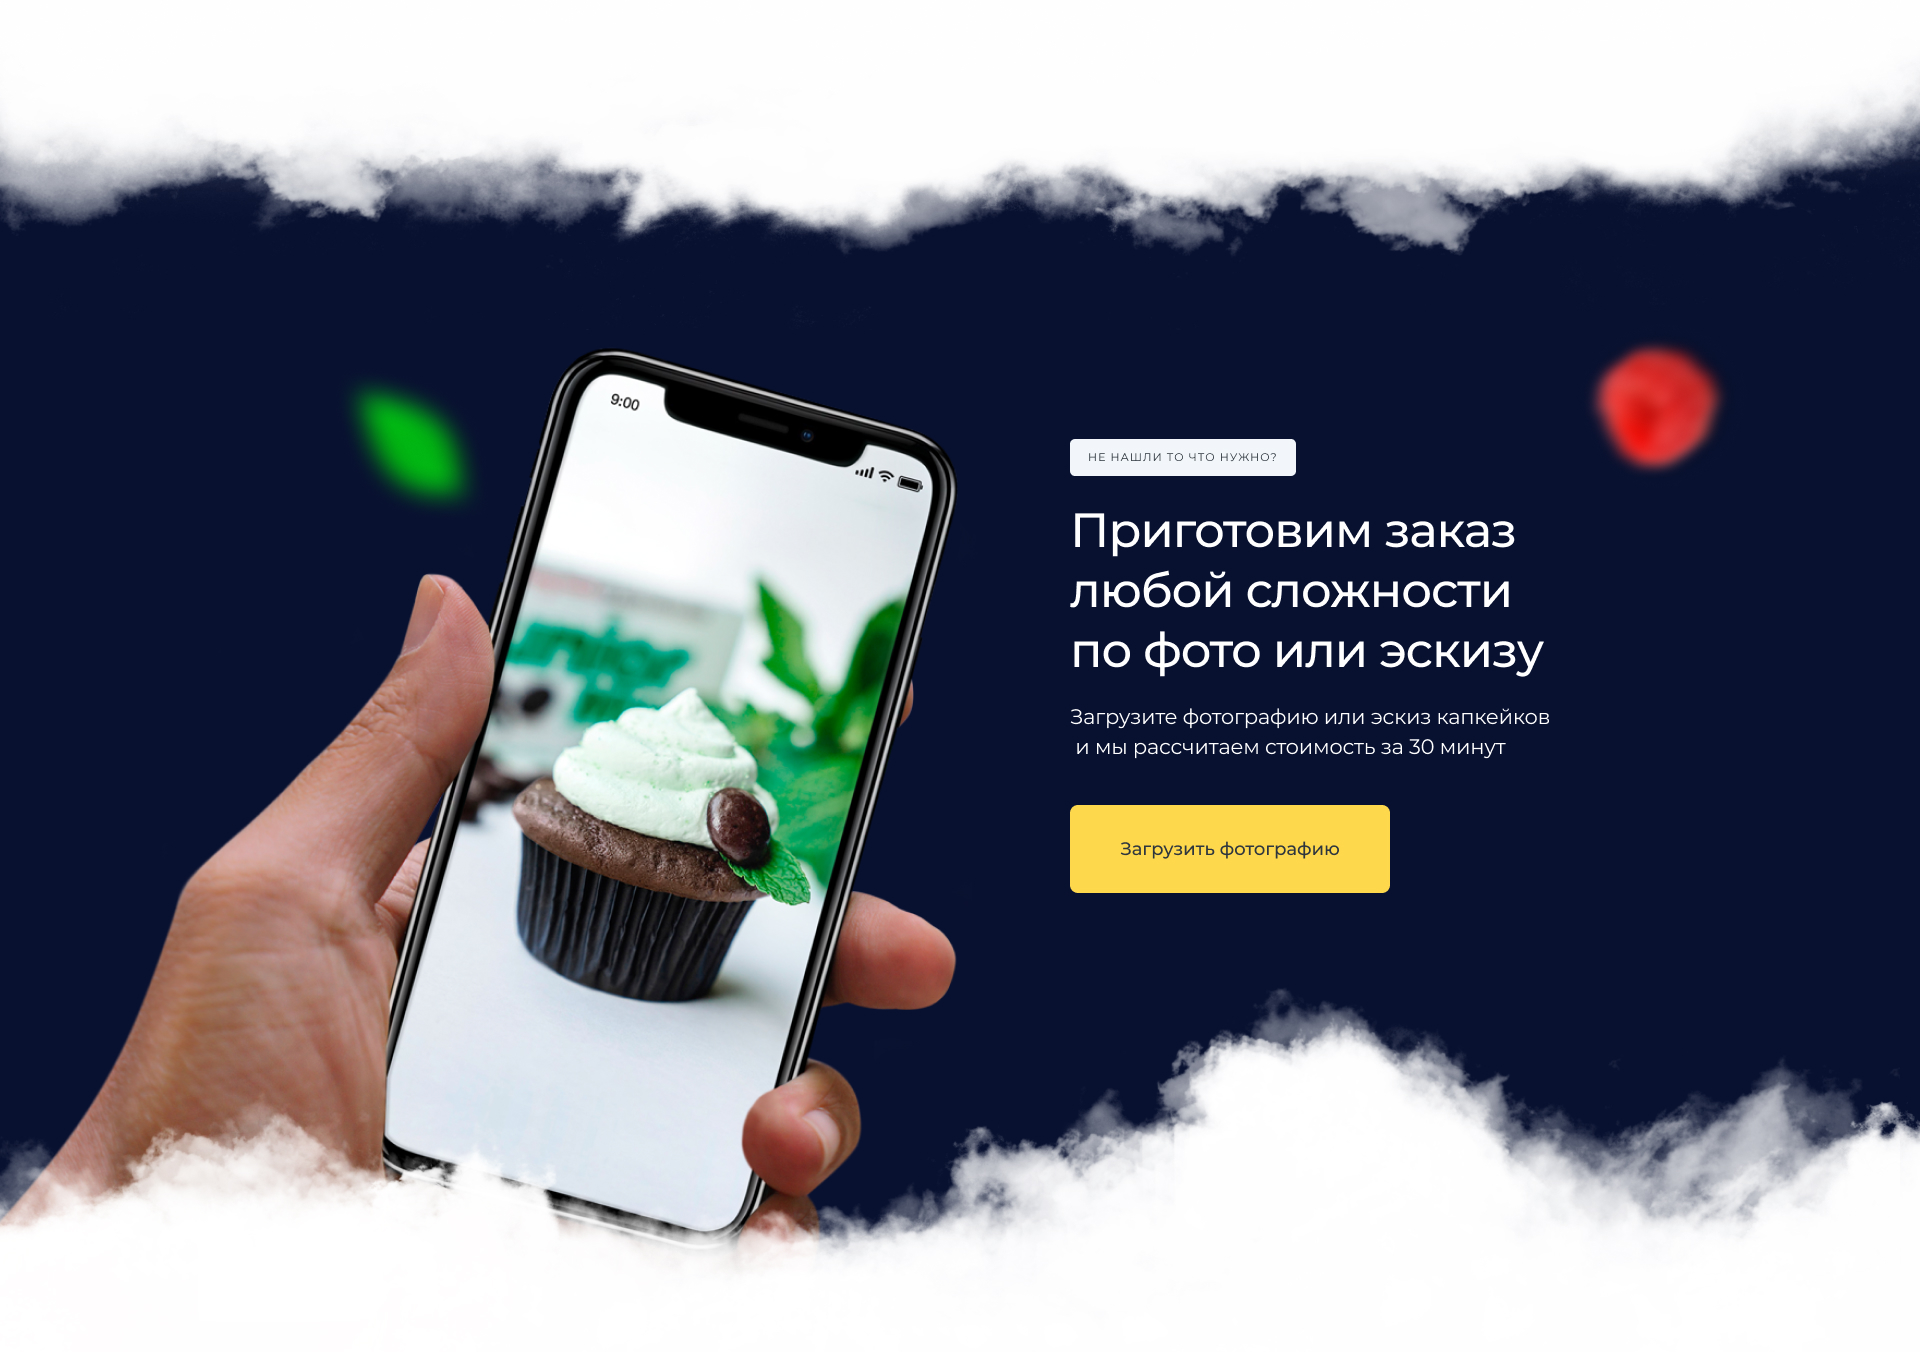
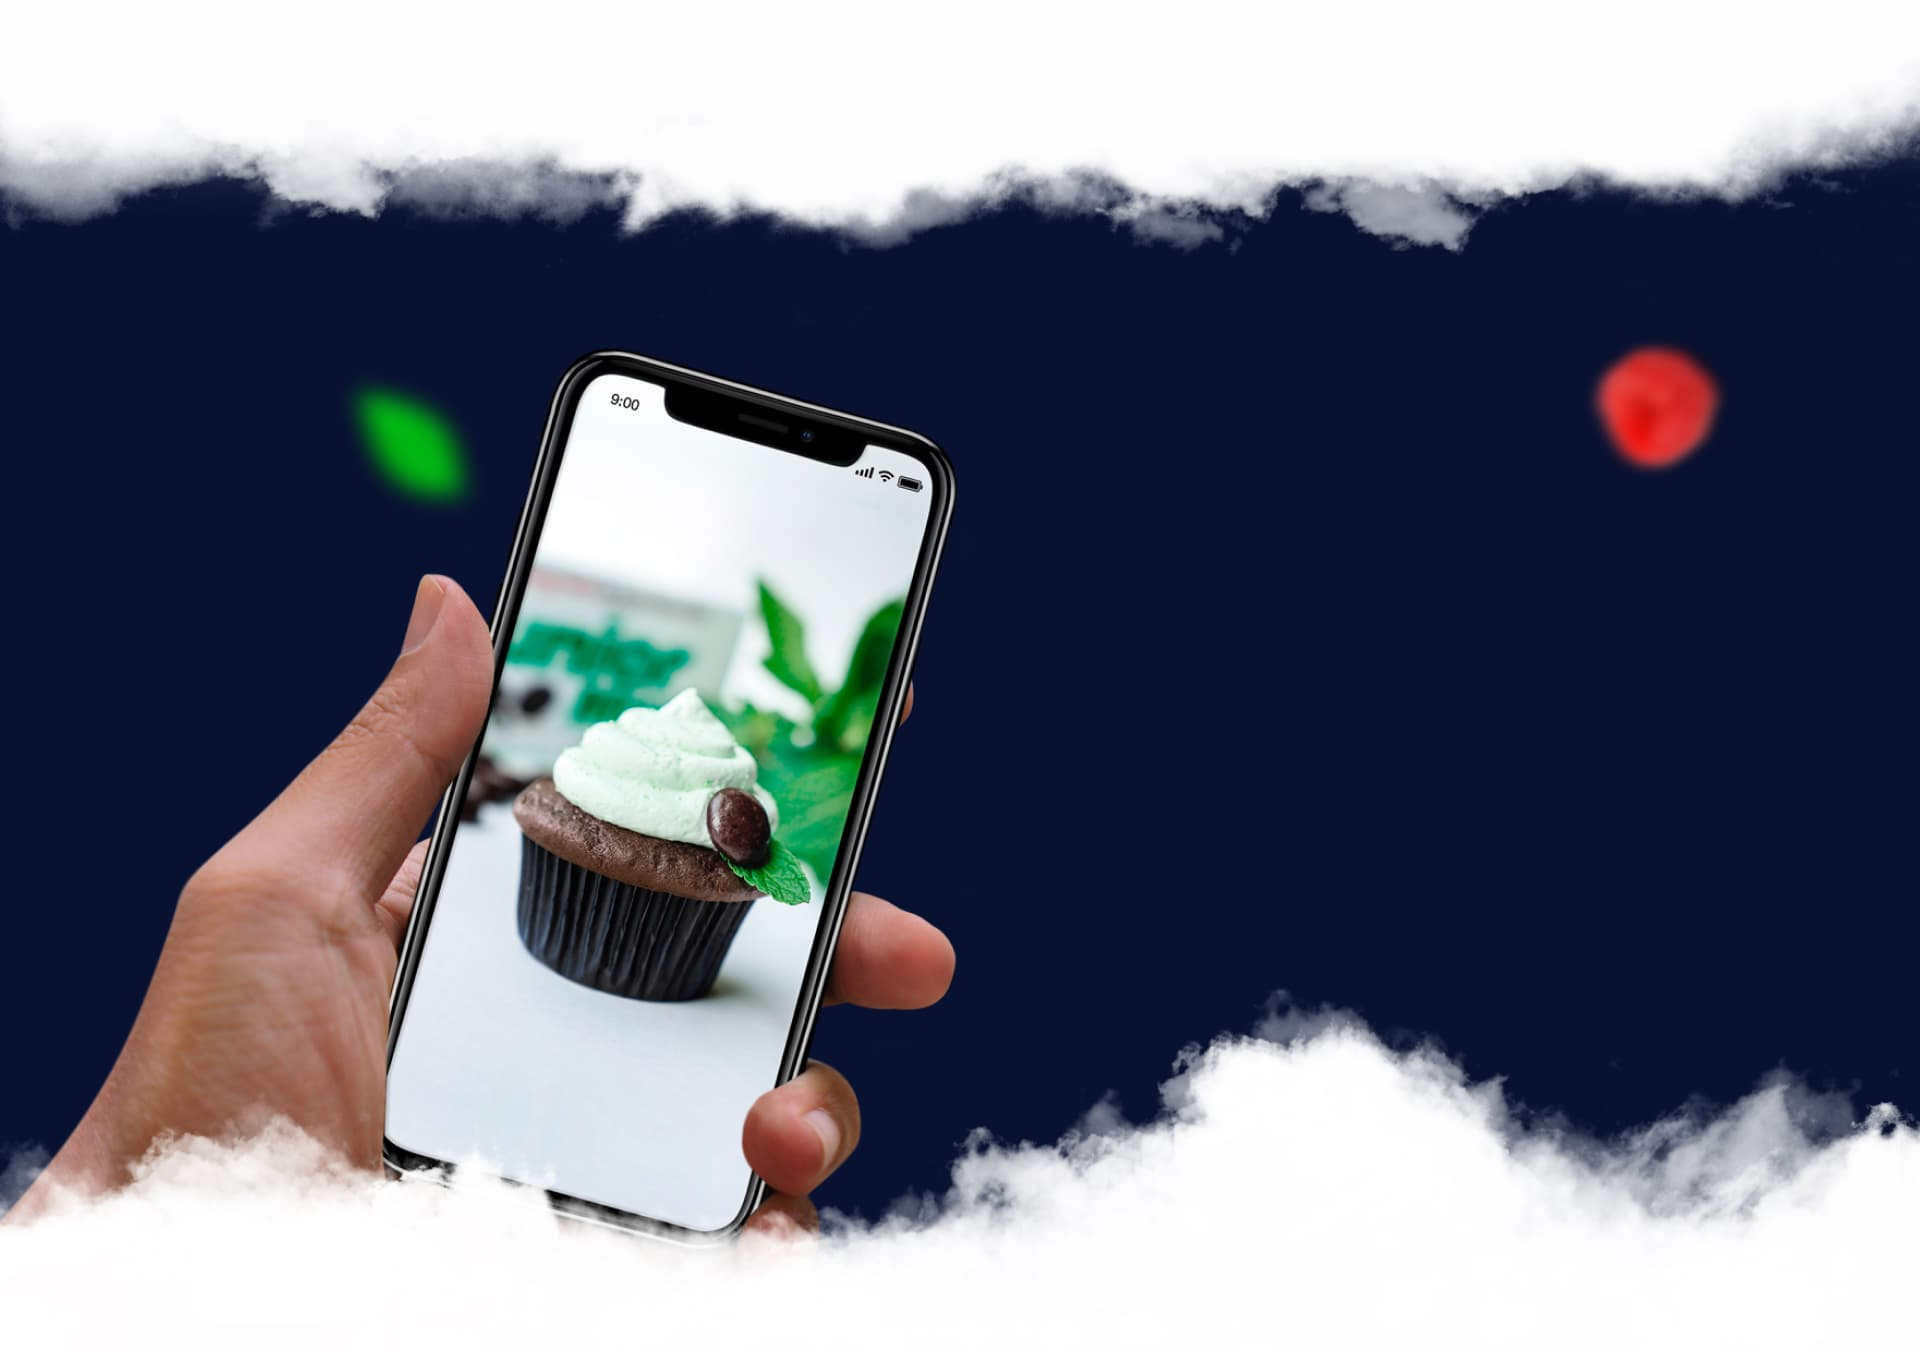
content-first

Changed region(s): [[0.5625, 0.3107, 0.8125, 0.497], [0.5312, 0.5902, 0.75, 0.6834], [0.5625, 0.5281, 0.8125, 0.5592]]

diff --git a/css/style.css b/css/style.css
@@ -123,6 +123,7 @@ a {
   -webkit-box-flex: 1;
       -ms-flex: 1 1 auto;
           flex: 1 1 auto;
+  margin-top: -55px;
 }
 
 .container {
@@ -381,6 +382,7 @@ a {
   -webkit-box-align: center;
       -ms-flex-align: center;
           align-items: center;
+  font-size: 11px;
   letter-spacing: 0.1em;
   text-transform: uppercase;
   color: #2e363e;
@@ -388,6 +390,7 @@ a {
   background: #f2f6fa;
   border-radius: 5px;
   margin-bottom: 24px;
+  line-height: 150%;
 }
 
 .title {
@@ -433,6 +436,7 @@ a {
 }
 
 .button {
+  display: inline-block;
   background: #fed84c;
   border-radius: 8px;
   font-weight: 500;
@@ -527,6 +531,11 @@ a {
   border: 1px solid #f2f6fa;
   border-radius: 0px 0px 10px 10px;
 }
+@media (max-width: 490px) {
+  .product-catalog__body {
+    padding: 30px 24px;
+  }
+}
 .product-catalog__subtitle {
   font-weight: 700;
   font-size: 24px;
@@ -603,4 +612,92 @@ a {
           transform: rotate(0deg);
   top: 53%;
   right: -90px;
+}
+
+.content-first {
+  z-index: 0;
+  position: relative;
+  background: url("../img/content-first/bg.jpg") 60% 50% no-repeat;
+  background-size: cover;
+  height: 1294px;
+  color: #ffffff;
+  padding: 37px 0;
+}
+@media (max-width: 992px) {
+  .content-first {
+    background: url("../img/content-first/bg__1300.jpg") 50% 50% no-repeat;
+    height: 791px;
+  }
+}
+@media (max-width: 767px) {
+  .content-first {
+    background: url("../img/content-first/bg__1000.jpg") 50% 50% no-repeat;
+    height: 600px;
+    padding: 10px 0;
+  }
+}
+.content-first__body {
+  margin: 372px 0px 0px 0px;
+  display: -webkit-box;
+  display: -ms-flexbox;
+  display: flex;
+  -webkit-box-pack: end;
+      -ms-flex-pack: end;
+          justify-content: flex-end;
+}
+@media (max-width: 992px) {
+  .content-first__body {
+    margin: 130px 0px 0px 0px;
+    -webkit-box-pack: center;
+        -ms-flex-pack: center;
+            justify-content: center;
+  }
+}
+.content-first__block {
+  max-width: 521px;
+  padding: 0 20px;
+}
+@media (max-width: 767px) {
+  .content-first__block {
+    max-width: 487px;
+  }
+}
+.content-first__title {
+  font-weight: 500;
+  margin: 0px 0px 24px 0px;
+}
+@media (max-width: 490px) {
+  .content-first__title {
+    letter-spacing: -1px;
+    line-height: 30px;
+    margin: 0px 0px 14px 0px;
+  }
+}
+.content-first__subtitle {
+  font-size: 21px;
+  letter-spacing: -0.2px;
+}
+@media (max-width: 767px) {
+  .content-first__subtitle {
+    font-size: 18px;
+  }
+}
+@media (max-width: 490px) {
+  .content-first__subtitle {
+    font-size: 14px;
+  }
+}
+.content-first__link {
+  position: relative;
+  display: inline-block;
+}
+.content-first__load {
+  cursor: pointer;
+  display: block;
+  position: absolute;
+  top: 0;
+  left: 0;
+  width: 100%;
+  height: 100%;
+  opacity: 0;
 }

diff --git a/$source/scss/style.scss b/$source/scss/style.scss
@@ -28,6 +28,7 @@ a {
 
 .content {
 	flex: 1 1 auto;
+	margin-top: -55px;
 }
 
 .container {
@@ -279,6 +280,7 @@ a {
 .predtitle {
 	display: inline-block;
 	align-items: center;
+	font-size: 11px;
 	letter-spacing: 0.1em;
 	text-transform: uppercase;
 	color: #2e363e;
@@ -286,6 +288,7 @@ a {
 	background: #f2f6fa;
 	border-radius: 5px;
 	margin-bottom: 24px;
+	line-height: 150%;
 }
 .title {
 	font-size: 48px;
@@ -321,6 +324,7 @@ a {
 	}
 }
 .button {
+	display: inline-block;
 	background: #fed84c;
 	border-radius: 8px;
 	font-weight: 500;
@@ -403,6 +407,9 @@ a {
 		padding: 50px 44px;
 		border: 1px solid #f2f6fa;
 		border-radius: 0px 0px 10px 10px;
+		@media (max-width: 490px) {
+			padding: 30px 24px;
+		}
 	}
 	// .product-catalog__subtitle
 
@@ -483,4 +490,105 @@ a {
 			right: -90px;
 		}
 	}
+}
+
+.content-first {
+	z-index: 0;
+	position: relative;
+	background: url("../img/content-first/bg.jpg") 60% 50% no-repeat;
+	background-size: cover;
+	height: 1294px;
+	color: #ffffff;
+	padding: 37px 0;
+	// @media (max-width: 1180px) {
+	// 	background: url("../img/First-screen/bg.jpg") 70% 50% no-repeat;
+	// }
+	@media (max-width: 992px) {
+		background: url("../img/content-first/bg__1300.jpg") 50% 50% no-repeat;
+		height: 791px;
+	}
+	@media (max-width: 767px) {
+		background: url("../img/content-first/bg__1000.jpg") 50% 50% no-repeat;
+		height: 600px;
+		padding: 10px 0;
+	}
+	// .content-first__body
+
+	&__body {
+		margin: 372px 0px 0px 0px;
+		display: flex;
+		justify-content: flex-end;
+		@media (max-width: 992px) {
+			margin: 130px 0px 0px 0px;
+			justify-content: center;
+		}
+	}
+
+	&__block {
+		max-width: 521px;
+		padding: 0 20px;
+		@media (max-width: 767px) {
+			max-width: 487px;
+		}
+	}
+
+	// .content-first__predtitle
+
+	&__predtitle {
+	}
+
+	// .content-first__title
+
+	&__title {
+		font-weight: 500;
+		margin: 0px 0px 24px 0px;
+		@media (max-width: 490px) {
+			letter-spacing: -1px;
+			line-height: 30px;
+			margin: 0px 0px 14px 0px;
+		}
+	}
+
+	// .content-first__nobr
+
+	&__nobr {
+	}
+
+	// .content-first__subtitle
+
+	&__subtitle {
+		font-size: 21px;
+		letter-spacing: -0.2px;
+		@media (max-width: 767px) {
+			font-size: 18px;
+		}
+		@media (max-width: 490px) {
+			font-size: 14px;
+		}
+	}
+
+	// .content-first__link
+
+	&__link {
+		position: relative;
+		display: inline-block;
+	}
+
+	// .content-first__button
+
+	&__button {
+	}
+
+	&__load {
+		cursor: pointer;
+		display: block;
+		position: absolute;
+		top: 0;
+		left: 0;
+		width: 100%;
+		height: 100%;
+		opacity: 0;
+	}
+
+	// .content-first__text
 }

diff --git a/index.html b/index.html
@@ -347,6 +347,36 @@
               </div>
             </div>
           </div>
+          <div class="content-first">
+            <div class="container">
+              <div class="content-first__body">
+                <div class="content-first__block">
+                  <div class="content-first__predtitle predtitle">
+                    Не нашли то что нужно?
+                  </div>
+                  <h1 class="content-first__title title">
+                    Приготовим заказ любой сложности по&nbsp;фото или эскизу
+                  </h1>
+                  <div class="content-first__subtitle subtitle">
+                    Загрузите фотографию или эскиз капкейков и мы рассчитаем
+                    стоимость за 30 минут
+                  </div>
+                  <div class="content-first__link">
+                    <div class="content-first__button button">
+                      Загрузить фотографию
+                    </div>
+                    <input
+                      class="content-first__load"
+                      tabindex="9"
+                      type="file"
+                      name="foto"
+                      value=""
+                    />
+                  </div>
+                </div>
+              </div>
+            </div>
+          </div>
           <div class="services">
             <div class="container">
               <h2 class="services__title title">
